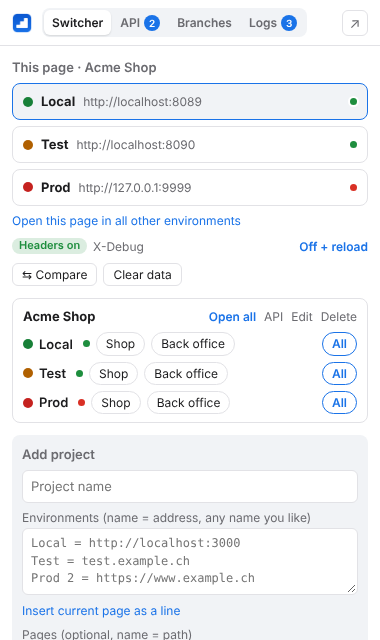
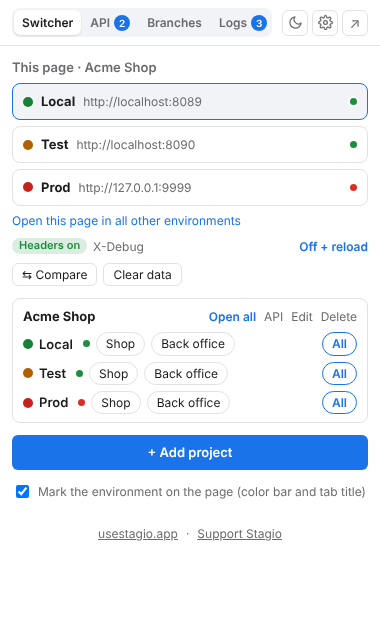
Neue Screenshots (Website + Store): neuer Header, Logs mit Details, Dunkelmodus
Claude-Session: https://claude.ai/code/session_01Jazjvt8RFmiZBmhz1vwmh6

diff --git a/site/index.html b/site/index.html
@@ -45,7 +45,7 @@
       <div><b><span class="en">Server status</span><span class="de">Server-Status</span></b><span class="en">A dot per environment shows whether it responds, with the response time.</span><span class="de">Ein Punkt pro Umgebung zeigt, ob sie antwortet, mit Antwortzeit.</span></div>
       <div><b><span class="en">Header presets</span><span class="de">Header-Presets</span></b><span class="en">Send headers like X-Debug or an auth token with every request to an environment. Can be turned off per environment.</span><span class="de">Header wie X-Debug oder ein Token bei jedem Aufruf einer Umgebung mitschicken. Pro Umgebung abschaltbar.</span></div>
       <div><b><span class="en">API tester</span><span class="de">API-Tester</span></b><span class="en">Requests and responses in the style of Swagger UI. Imports OpenAPI, cURL, Postman and HAR. One request can be sent to two environments to compare the responses field by field.</span><span class="de">Requests und Antworten im Stil von Swagger UI. Importiert OpenAPI, cURL, Postman und HAR. Ein Request lässt sich an zwei Umgebungen senden, um die Antworten Feld für Feld zu vergleichen.</span></div>
-      <div><b><span class="en">Logs</span><span class="de">Logs</span></b><span class="en">JavaScript errors, console.error and failed requests of your pages. The count is shown on the toolbar icon.</span><span class="de">JavaScript-Fehler, console.error und fehlgeschlagene Requests deiner Seiten. Die Anzahl steht auf dem Icon.</span></div>
+      <div><b><span class="en">Logs</span><span class="de">Logs</span></b><span class="en">JavaScript errors, console.error and failed requests of your pages, with payload and headers. The count is shown on the toolbar icon.</span><span class="de">JavaScript-Fehler, console.error und fehlgeschlagene Requests deiner Seiten, mit Payload und Headern. Die Anzahl steht auf dem Icon.</span></div>
       <div><b><span class="en">Clear data</span><span class="de">Daten löschen</span></b><span class="en">Clears cache, storage and optionally cookies of one environment only. Other sites are not touched.</span><span class="de">Löscht Cache, Storage und auf Wunsch Cookies einer einzigen Umgebung. Andere Seiten bleiben unberührt.</span></div>
       <div><b><span class="en">Team file</span><span class="de">Team-Datei</span></b><span class="en">Projects can be exported as .stagio.json and committed to the repository. Secret values are replaced by variables.</span><span class="de">Projekte lassen sich als .stagio.json exportieren und ins Repo committen. Geheime Werte werden durch Variablen ersetzt.</span></div>
       <div><b><span class="en">Branches</span><span class="de">Branches</span></b><span class="en">git and Mercurial per project: current branch, status, pull, push and switching. Optional, needs a small local <a href="helper.html">helper</a>.</span><span class="de">git und Mercurial pro Projekt: aktueller Branch, Status, Pull, Push und Wechseln. Optional, braucht ein kleines lokales <a href="helper.html">Hilfsprogramm</a>.</span></div>
@@ -72,6 +72,28 @@
         <span class="de">Zeigt den aktuellen Branch jedes Repos mit geänderten Dateien und ungepushten Commits. Neue Branches lassen sich aus einer Ticket-Nummer benennen, zum Beispiel feature/ABC-123-login-reparieren.</span>
       </p>
       <a class="link" href="helper.html"><span class="en">How to set up the helper</span><span class="de">Hilfsprogramm einrichten</span></a>
+    </div>
+  </section>
+
+  <section class="two">
+    <div>
+      <h2><span class="en">Logs</span><span class="de">Logs</span></h2>
+      <p class="lead">
+        <span class="en">JavaScript errors, console.error and failed requests of your pages in one list. Click an entry to see the payload, request and response headers or the stack trace, copy it as cURL or send it again in the API tester.</span>
+        <span class="de">JavaScript-Fehler, console.error und fehlgeschlagene Requests deiner Seiten in einer Liste. Ein Klick auf einen Eintrag zeigt Payload, Request- und Antwort-Header oder den Stacktrace. Als cURL kopieren oder im API-Tester nochmal senden.</span>
+      </p>
+    </div>
+    <div class="shot narrow"><img src="img/screenshot-3.png" alt="Logs"></div>
+  </section>
+
+  <section class="two">
+    <div class="shot narrow"><img src="img/screenshot-5.png" alt="Dark mode"></div>
+    <div>
+      <h2><span class="en">Light and dark</span><span class="de">Hell und dunkel</span></h2>
+      <p class="lead">
+        <span class="en">Follows your system setting, or switch with one click in the popup.</span>
+        <span class="de">Folgt der Einstellung deines Systems, oder mit einem Klick im Popup umschalten.</span>
+      </p>
     </div>
   </section>
 
